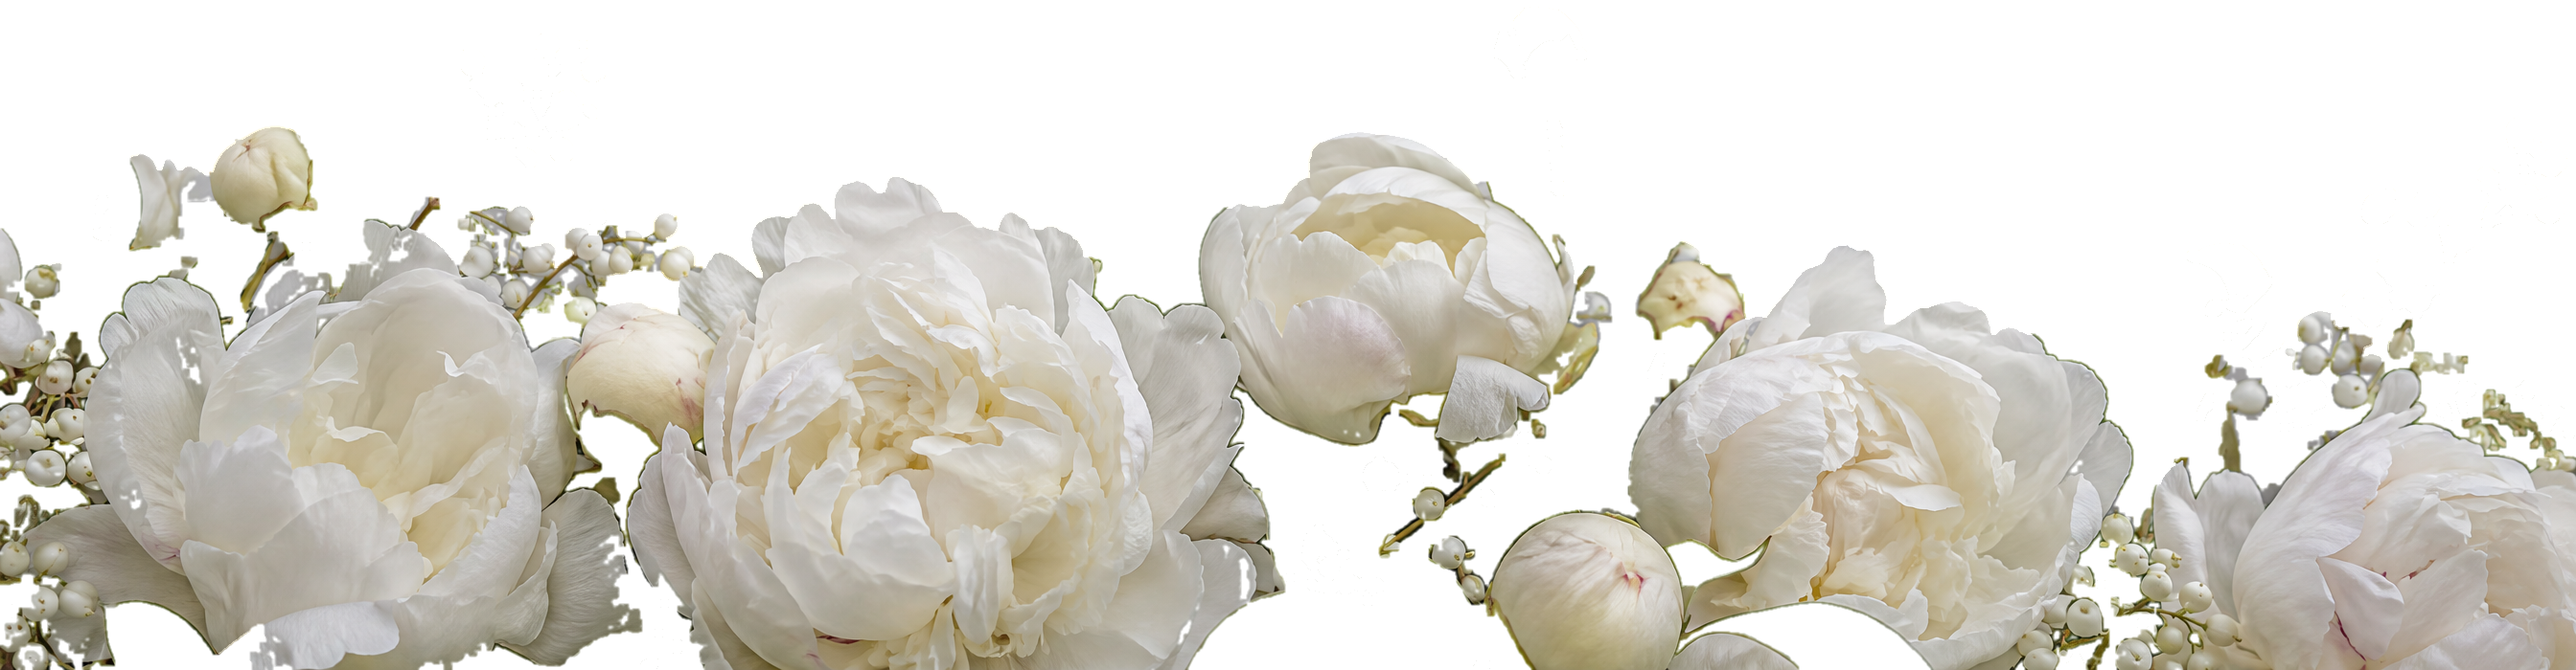
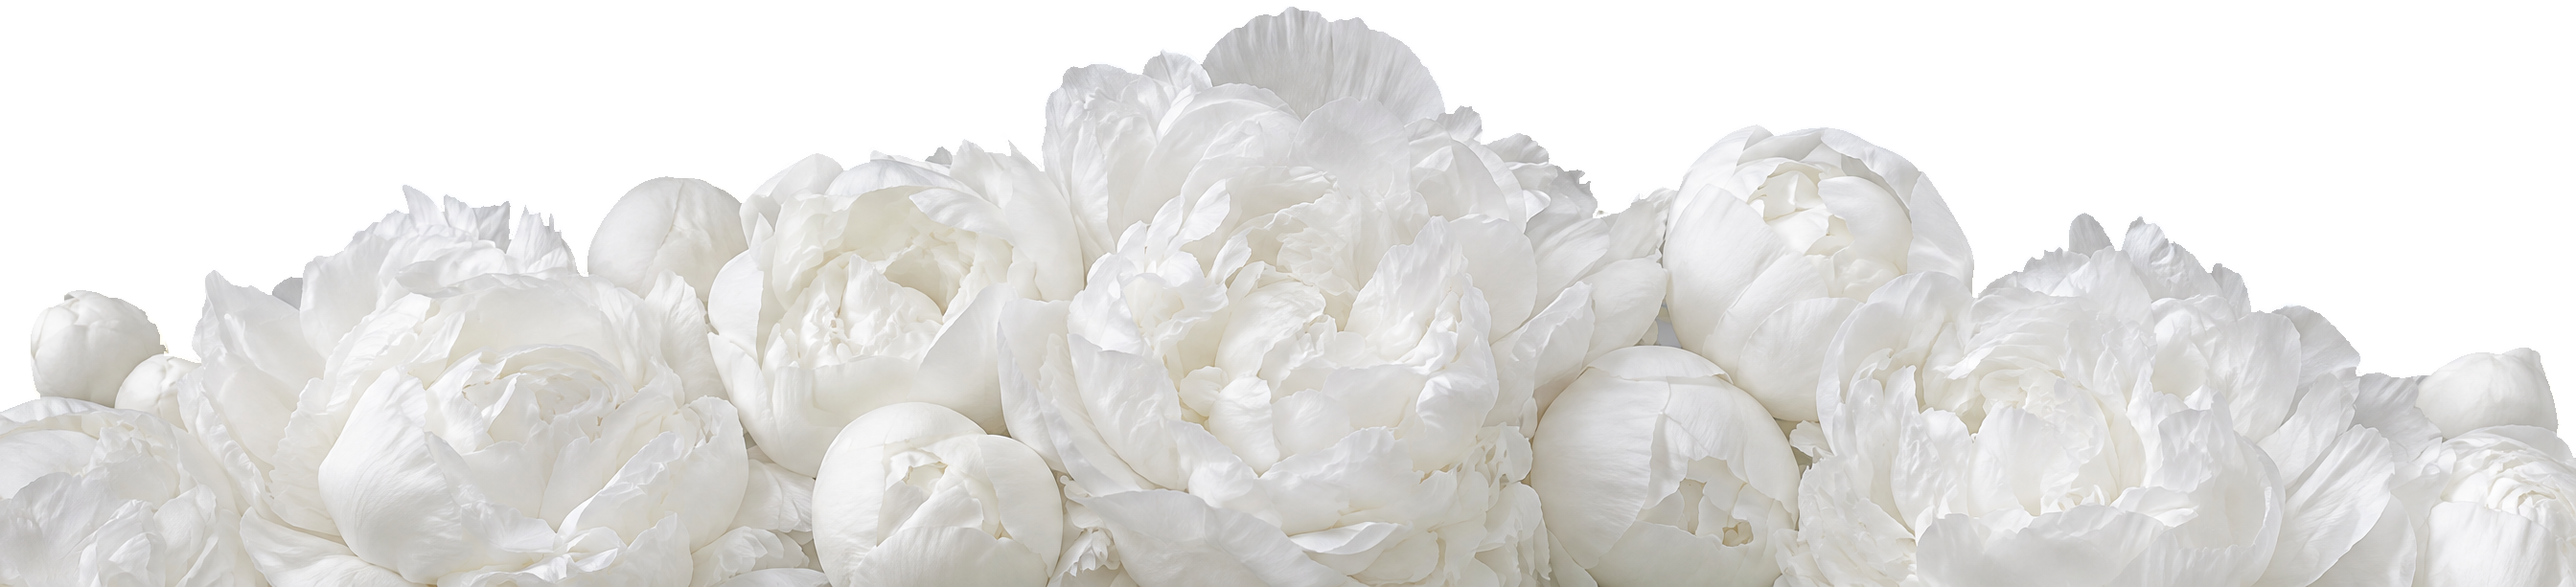
All-white peony frame, one-screen sections, fuller footer
- Flowers: new photo-real arrangements of pure white peonies and buds
  only (no leaves, no green, no yellow), generated in Higgsfield and cut
  out by scripts/cutout-peonies.mjs; old recolour scripts and colour
  originals removed
- Layout: content below the hero sits on a soft ivory sheet over the
  church; When & Where and RSVP each fill one screen, centred; wider
  RSVP card
- Footer: its own closing screen with gilt rule, larger names, date and
  both venues; corner sprays tucked past the screen edges

diff --git a/app/globals.css b/app/globals.css
@@ -544,8 +544,26 @@ a {
 
 /* ---------- Sections ---------- */
 
+/* Below the hero the content sits on a sheet of ivory paper laid over the church: the church stays
+   faintly visible, but no longer competes with cards and text. */
+.page-sheet {
+  position: relative;
+  background: linear-gradient(
+    180deg,
+    rgb(251 248 243 / 0) 0,
+    rgb(251 248 243 / 0.84) clamp(120px, 18vh, 220px),
+    rgb(251 248 243 / 0.84) 100%
+  );
+}
+
+/* One section per screen: each fills the viewport with its content centred, so nothing floats
+   in a half-empty band. */
 .section {
-  padding-block: clamp(56px, 8vh, 96px);
+  min-height: 100svh;
+  display: flex;
+  flex-direction: column;
+  justify-content: center;
+  padding-block: clamp(96px, 13vh, 150px);
 }
 .section-head {
   position: relative;
@@ -705,7 +723,8 @@ a {
 /* ---------- RSVP ---------- */
 
 .rsvp-card {
-  max-width: 680px;
+  width: 100%;
+  max-width: 720px;
   margin-inline: auto;
   padding: clamp(28px, 5vw, 56px) clamp(20px, 5vw, 56px);
 }
@@ -906,8 +925,13 @@ a {
 
 .footer {
   position: relative;
-  z-index: 65; /* text above the flowers and petals */
-  padding: clamp(56px, 9vh, 96px) 20px clamp(150px, 24vh, 240px);
+  z-index: 65; /* text above the flowers */
+  min-height: 72svh;
+  display: flex;
+  flex-direction: column;
+  align-items: center;
+  justify-content: center;
+  padding: clamp(64px, 10vh, 120px) 20px clamp(160px, 26vh, 260px);
   text-align: center;
   isolation: isolate;
   overflow: clip;
@@ -919,8 +943,23 @@ a {
   font-size: 1.25rem;
   color: var(--color-muted);
 }
+.footer-rule {
+  display: block;
+  width: 96px;
+  height: 1px;
+  margin-bottom: 28px;
+  background: linear-gradient(90deg, transparent, var(--color-gilt), transparent);
+}
+.footer-venues {
+  margin-top: 8px;
+  font-family: var(--font-serif);
+  font-style: italic;
+  font-size: 1.125rem;
+  color: var(--color-muted);
+}
 .footer-names {
-  font-size: clamp(2.75rem, 2rem + 3vw, 4rem);
+  margin-top: 6px;
+  font-size: clamp(3.25rem, 2rem + 4.5vw, 5.5rem);
   line-height: 1.1;
   color: var(--color-names);
 }

diff --git a/components/Footer.tsx b/components/Footer.tsx
@@ -1,11 +1,16 @@
-import { DATE_LABEL } from "@/lib/wedding";
+import { DATE_LABEL, VENUES } from "@/lib/wedding";
 
+/** The close: a quiet sign-off, set like the last line of the invitation. */
 export function Footer() {
   return (
     <footer className="footer">
+      <span className="footer-rule" aria-hidden="true" />
       <p className="footer-love">With love,</p>
       <p className="script footer-names">Linda &amp; Marko</p>
       <p className="footer-date">{DATE_LABEL}</p>
+      <p className="footer-venues">
+        {VENUES.ceremony.name} · {VENUES.reception.name}
+      </p>
     </footer>
   );
 }

diff --git a/app/rsvp/[token]/page.tsx b/app/rsvp/[token]/page.tsx
@@ -22,11 +22,13 @@ export default async function PersonalRsvp({ params }: { params: Promise<{ token
       <SiteNav />
       <FlowerFrame />
       <Hero />
+      <div className="page-sheet">
       <main>
         <Details />
         <RsvpSection invite={invite} />
       </main>
       <Footer />
+      </div>
     </>
   );
 }

diff --git a/app/page.tsx b/app/page.tsx
@@ -16,11 +16,13 @@ export default function Home() {
       <SiteNav />
       <FlowerFrame />
       <Hero />
+      <div className="page-sheet">
       <main>
         <Details />
         <RsvpSection />
       </main>
       <Footer />
+      </div>
     </>
   );
 }
